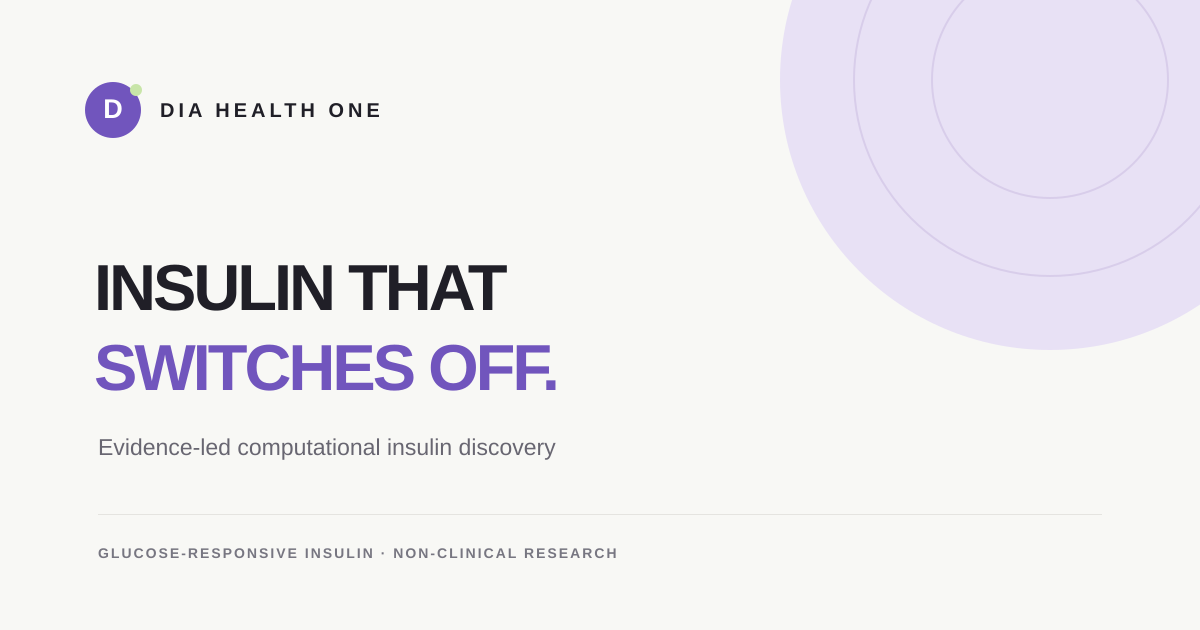
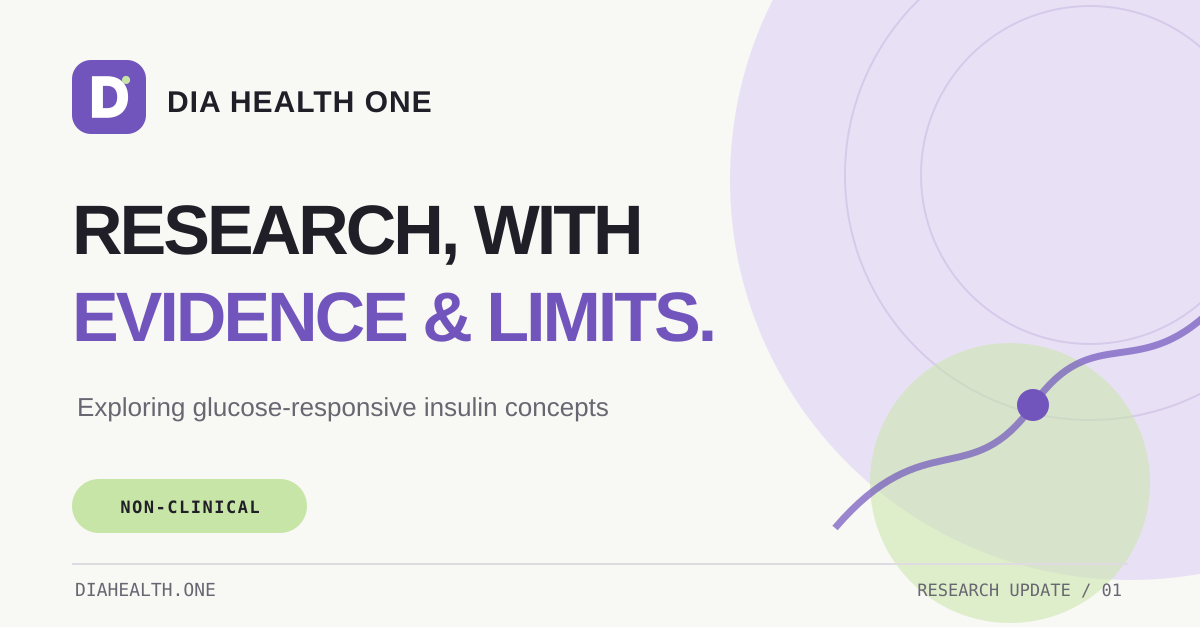
Add cohesive Dia Health One web and LinkedIn brand kit (#68)

diff --git a/scripts/build_brand_assets.py b/scripts/build_brand_assets.py
@@ -1,0 +1,49 @@
+from pathlib import Path
+import subprocess
+from PIL import Image
+ROOT=Path(__file__).resolve().parents[1]
+OUT=ROOT/"assets/brand"
+OUT.mkdir(parents=True,exist_ok=True)
+V="#7155bd"; V2="#927dd4"; L="#c8e5a8"; I="#201f27"; IV="#f8f8f5"; MUT="#686671"
+def put(name,svg,export=None):
+ p=OUT/name
+ p.write_text(svg,encoding="utf-8")
+ for png,w,h in export or []:
+  subprocess.run(["rsvg-convert","-w",str(w),"-h",str(h),"-o",str(OUT/png),str(p)],check=True)
+  assert Image.open(OUT/png).size==(w,h)
+  print(png,w,h,(OUT/png).stat().st_size)
+def mark(x,y,size):
+ scale=size/512
+ return f'<g transform="translate({x} {y}) scale({scale})"><rect width="512" height="512" rx="132" fill="{V}"/><path d="M138 112h105c91 0 145 56 145 144S334 400 243 400H138V112Zm76 67v154h29c45 0 70-27 70-77s-25-77-70-77h-29Z" fill="#fff"/><circle cx="374" cy="138" r="28" fill="{L}"/></g>'
+def svg(w,h,inner,defs=""):
+ return f'<svg xmlns="http://www.w3.org/2000/svg" width="{w}" height="{h}" viewBox="0 0 {w} {h}" role="img"><defs>{defs}</defs>{inner}</svg>'
+font='font-family="Manrope,Liberation Sans,Arial,sans-serif"'
+mono='font-family="DM Mono,DejaVu Sans Mono,monospace"'
+base=(ROOT/"assets/dia-health-one-mark.svg").read_text()
+put("dia-mark-master.svg",base,[("linkedin-logo-400.png",400,400),("dia-logo-1024.png",1024,1024)])
+word=mark(0,7,156)+f'<text x="185" y="118" fill="{I}" font-size="86" font-weight="800" letter-spacing="-3" {font}>DIA</text><text x="366" y="118" fill="{V}" font-size="86" font-weight="800" letter-spacing="-3" {font}>HEALTH</text><text x="757" y="118" fill="{I}" font-size="86" font-weight="800" letter-spacing="-3" {font}>ONE</text>'
+put("wordmark-dark.svg",svg(1200,180,word),[("wordmark-dark.png",1200,180)])
+word2=mark(0,7,156)+f'<text x="185" y="118" fill="white" font-size="86" font-weight="800" letter-spacing="-3" {font}>DIA</text><text x="366" y="118" fill="{L}" font-size="86" font-weight="800" letter-spacing="-3" {font}>HEALTH</text><text x="757" y="118" fill="white" font-size="86" font-weight="800" letter-spacing="-3" {font}>ONE</text>'
+put("wordmark-light.svg",svg(1200,180,word2))
+defs=f'<linearGradient id="bg" x1="0" y1="0" x2="1" y2="1"><stop stop-color="#201f27"/><stop offset=".64" stop-color="#3b2d62"/><stop offset="1" stop-color="#6651a5"/></linearGradient><radialGradient id="glow"><stop stop-color="{V2}" stop-opacity=".55"/><stop offset="1" stop-color="{V2}" stop-opacity="0"/></radialGradient><pattern id="dots" width="68" height="68" patternUnits="userSpaceOnUse"><circle cx="3" cy="3" r="2.4" fill="#cec2f9" opacity=".35"/></pattern>'
+parts=[f'<rect width="4200" height="700" fill="url(#bg)"/>','<circle cx="3570" cy="310" r="650" fill="url(#glow)"/>','<rect x="2880" width="1320" height="700" fill="url(#dots)" opacity=".8"/>']
+for r in (180,310,450,600,780):
+ parts.append(f'<circle cx="3630" cy="370" r="{r}" fill="none" stroke="#e3dff5" stroke-width="3" opacity=".18"/>')
+parts.extend([
+ f'<path d="M2530 615 C2910 420,3030 520,3340 350 S3800 230,4200 70" fill="none" stroke="{L}" stroke-width="7" opacity=".7"/>',
+ f'<path d="M2450 690 C2940 480,3270 750,3670 490 S4030 395,4300 310" fill="none" stroke="{V2}" stroke-width="24" opacity=".45"/>',
+ f'<circle cx="3340" cy="350" r="21" fill="{L}"/>',f'<circle cx="3825" cy="224" r="21" fill="{V2}"/>',mark(410,254,180),
+ f'<text x="660" y="335" fill="white" font-size="165" font-weight="800" letter-spacing="-7" {font}>DIA HEALTH ONE</text>',
+ f'<text x="669" y="425" fill="{L}" font-size="53" font-weight="600" letter-spacing="1" {font}>Computational insulin discovery</text>',
+ f'<text x="670" y="498" fill="#d3cde3" font-size="31" letter-spacing="4" {mono}>EVIDENCE-LED  /  NON-CLINICAL RESEARCH</text>',
+ '<path d="M670 546 H1920" stroke="#ffffff" opacity=".2" stroke-width="3"/>'
+])
+put("linkedin-cover-master.svg",svg(4200,700,"".join(parts),defs),[("linkedin-cover-4200x700.png",4200,700),("linkedin-cover-1512x256.png",1512,256),("linkedin-cover-1128x191.png",1128,191)])
+parts=[f'<rect width="1200" height="627" fill="{IV}"/>',f'<circle cx="1130" cy="180" r="400" fill="#e8e1f5"/>',f'<circle cx="1090" cy="175" r="245" fill="none" stroke="#d5caea" stroke-width="2"/>',f'<circle cx="1090" cy="175" r="169" fill="none" stroke="#d5caea" stroke-width="2"/>',f'<circle cx="1010" cy="483" r="140" fill="{L}" opacity=".55"/>',f'<path d="M835 528 C925 423,971 493,1033 405 S1140 388,1220 301" fill="none" stroke="{V}" stroke-width="7" opacity=".7"/>',f'<circle cx="1033" cy="405" r="16" fill="{V}"/>',mark(72,60,74),f'<text x="167" y="112" fill="{I}" font-size="30" font-weight="800" letter-spacing="1" {font}>DIA HEALTH ONE</text>',f'<text x="72" y="254" fill="{I}" font-size="70" font-weight="800" letter-spacing="-3" {font}>RESEARCH, WITH</text>',f'<text x="72" y="341" fill="{V}" font-size="70" font-weight="800" letter-spacing="-3" {font}>EVIDENCE &amp; LIMITS.</text>',f'<text x="77" y="416" fill="{MUT}" font-size="26" {font}>Exploring glucose-responsive insulin concepts</text>',f'<rect x="72" y="479" width="235" height="54" rx="27" fill="{L}"/>',f'<text x="190" y="513" text-anchor="middle" fill="{I}" font-size="17" font-weight="800" letter-spacing="1.5" {mono}>NON-CLINICAL</text>',f'<line x1="72" y1="564" x2="1128" y2="564" stroke="#dedbe1" stroke-width="2"/>',f'<text x="75" y="596" fill="{MUT}" font-size="18" {mono}>DIAHEALTH.ONE</text>',f'<text x="1122" y="596" text-anchor="end" fill="{MUT}" font-size="17" {mono}>RESEARCH UPDATE / 01</text>']
+put("linkedin-news-1200x627.svg",svg(1200,627,"".join(parts)),[("linkedin-news-1200x627.png",1200,627)])
+# Keep the existing website OpenGraph graphic in the same design system.
+site_og=ROOT/"assets/dia-health-one-social.svg"
+site_og.write_text(svg(1200,630,"".join(parts)),encoding="utf-8")
+subprocess.run(["rsvg-convert","-w","1200","-h","630","-o",str(ROOT/"assets/dia-health-one-social.png"),str(site_og)],check=True)
+sq=[f'<rect width="1080" height="1080" fill="{IV}"/>',f'<rect width="1080" height="32" fill="{V}"/>',f'<circle cx="1010" cy="180" r="270" fill="#e7e0f6"/>',f'<circle cx="1010" cy="180" r="200" stroke="#cdbfeb" stroke-width="2" fill="none"/>',mark(64,83,92),f'<text x="182" y="147" fill="{I}" font-size="41" font-weight="800" {font}>DIA HEALTH ONE</text>',f'<text x="71" y="291" fill="{V}" font-size="26" font-weight="800" letter-spacing="5" {mono}>RESEARCH NOTE</text>',f'<text x="65" y="415" fill="{I}" font-size="90" font-weight="800" letter-spacing="-4" {font}>Research update.</text>',f'<text x="70" y="485" fill="{MUT}" font-size="30" {font}>Evidence first. Limitations explicit.</text>',f'<rect x="64" y="562" width="950" height="324" rx="30" fill="#fff" stroke="#dfd8eb" stroke-width="3"/>',f'<circle cx="117" cy="631" r="11" fill="{V}"/><text x="150" y="641" fill="{I}" font-size="32" font-weight="700" {font}>What we tested</text>',f'<line x1="115" y1="690" x2="955" y2="690" stroke="#ece9ee" stroke-width="2"/>',f'<circle cx="117" cy="758" r="11" fill="{V2}"/><text x="150" y="768" fill="{I}" font-size="32" font-weight="700" {font}>What we observed</text>',f'<circle cx="117" cy="842" r="11" fill="#86b267"/><text x="150" y="852" fill="{I}" font-size="32" font-weight="700" {font}>What remains unknown</text>',f'<rect x="64" y="928" width="325" height="62" rx="31" fill="{L}"/>',f'<text x="226" y="968" text-anchor="middle" fill="{I}" font-size="22" font-weight="800" letter-spacing="2" {mono}>NON-CLINICAL</text>',f'<text x="1010" y="973" fill="{MUT}" text-anchor="end" font-size="22" {mono}>DIAHEALTH.ONE</text>']
+put("linkedin-research-template-1080.svg",svg(1080,1080,"".join(sq)),[("linkedin-research-template-1080.png",1080,1080)])

diff --git a/assets/brand/README.md b/assets/brand/README.md
@@ -1,0 +1,64 @@
+# DIA HEALTH ONE — Brand and social media kit
+
+This kit extends the visual identity at https://www.diahealth.one/ and reuses the existing D logo. It does not replace the public brand.
+
+## Brand identity
+
+- Display name: Dia Health One. Legal name: Dia Health One, Inc.
+- Positioning: Evidence-led computational research into glucose-responsive insulin.
+- Purple #7155BD, ink #201F27, pale green #C8E5A8, ivory #F8F8F5, muted gray #686671.
+- Type: Manrope for display and DM Mono for research labels (SVG exports include fallbacks).
+- Original site mark: /assets/dia-health-one-mark.svg. dia-mark-master.svg is an identical copy.
+- Do not use approved therapy, validated switch, breakthrough drug, clinically proven, safe insulin, or drug candidate claims. Public research documents are authoritative.
+- NON-CLINICAL is required when discussing research updates. Explain limitations.
+
+## Assets
+
+| File | Use | Pixels |
+| --- | --- | --- |
+| linkedin-logo-400.png | LinkedIn company avatar | 400 x 400 |
+| dia-logo-1024.png | General high-resolution mark | 1024 x 1024 |
+| linkedin-cover-4200x700.png | Official LinkedIn Page cover | 4200 x 700 |
+| linkedin-cover-1512x256.png | Compact cover alternate | 1512 x 256 |
+| linkedin-cover-1128x191.png | Legacy cover alternate | 1128 x 191 |
+| linkedin-news-1200x627.png | First social post and link-card graphic | 1200 x 627 |
+| linkedin-research-template-1080.png | Reusable square research-note graphic | 1080 x 1080 |
+| wordmark-dark.png | Horizontal wordmark, transparent background | 1200 x 180 |
+| assets/dia-health-one-social.png (parent directory) | Site OpenGraph / Twitter image | 1200 x 630 |
+| *.svg | Editable vector masters | Scalable |
+
+Exported PNGs are all under LinkedIn's 3 MB limit. Regenerate with:
+python3 scripts/build_brand_assets.py
+
+## Suggested company LinkedIn Page
+
+Page name: Dia Health One
+Public URL request: linkedin.com/company/dia-health-one (subject to availability)
+Website: https://www.diahealth.one/
+Industry: Biotechnology Research (choose nearest offered)
+Type: Privately Held
+Company size: 2-10 employees (current website shows three team members; verify when entered)
+Tagline: Evidence-led computational insulin research
+
+About:
+Dia Health One, Inc. explores glucose-responsive insulin concepts through computational, evidence-led research. Our work examines molecular recognition and the limits of current modeling methods. We publish research status and uncertainties openly. This is a non-clinical research programme; no Dia Health One therapy or drug candidate has been clinically validated or approved.
+
+Company email: patrik@diahealth.one
+Founder & CEO / requested Super Admin: Patrik Pallagi
+Personal LinkedIn URL from company website: https://hu.linkedin.com/in/pallagi2025
+
+## First post — draft only
+
+We are building Dia Health One around a difficult problem: how to investigate insulin systems that respond to glucose.
+
+Our approach is computational and evidence-led. We share what has been reproduced, where methods have limits, and what still needs experimental validation.
+
+Read our public research status: https://www.diahealth.one/research/status/
+
+This is non-clinical research. We have not validated or developed an approved insulin therapy.
+
+#ComputationalBiology #InsulinResearch #Biotechnology
+
+## Editorial rule
+
+A news post must be supported by a public evidence source and state the method, limitations and next unknown. No private supplier information, unpublished simulations, or speculative clinical claims. Patrik should review claims that go beyond previously public material.
